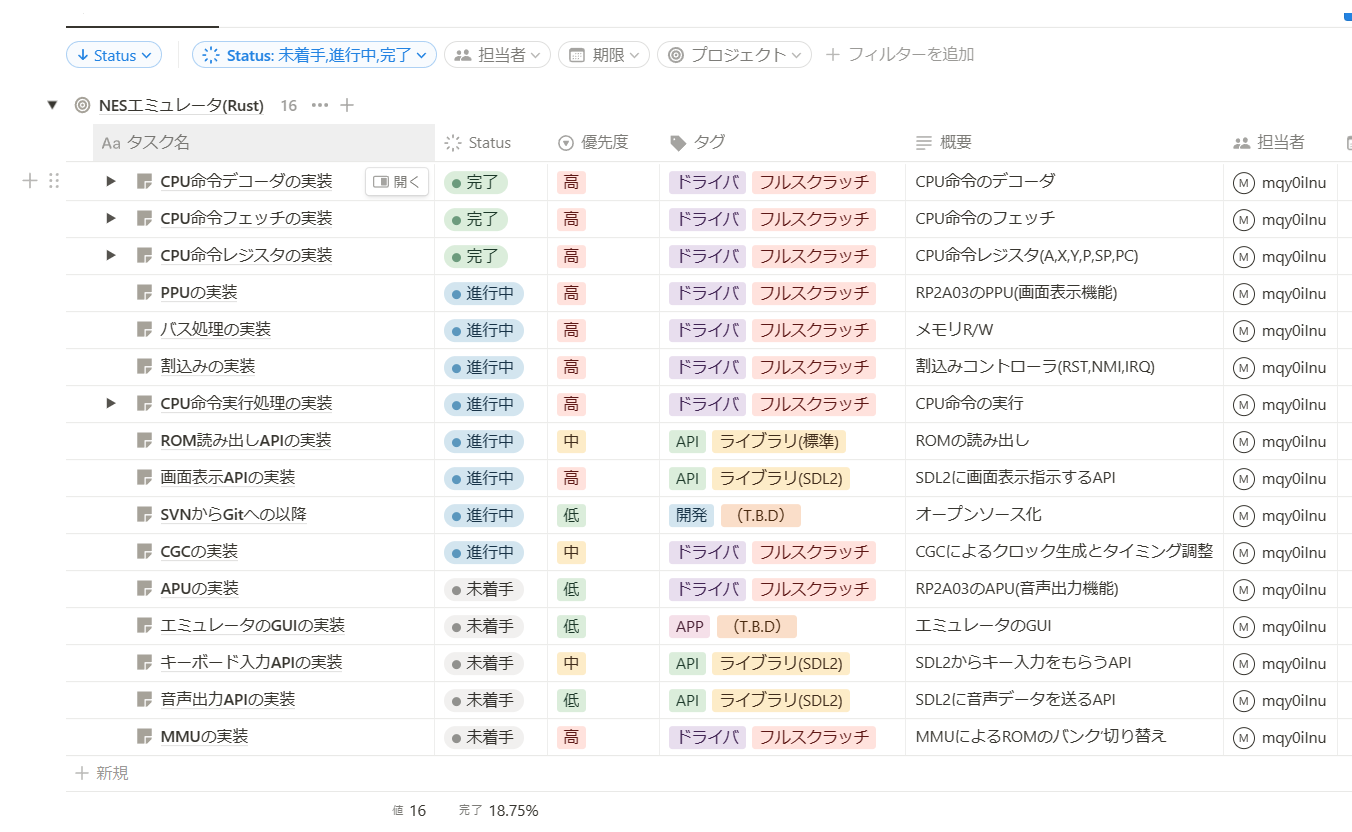
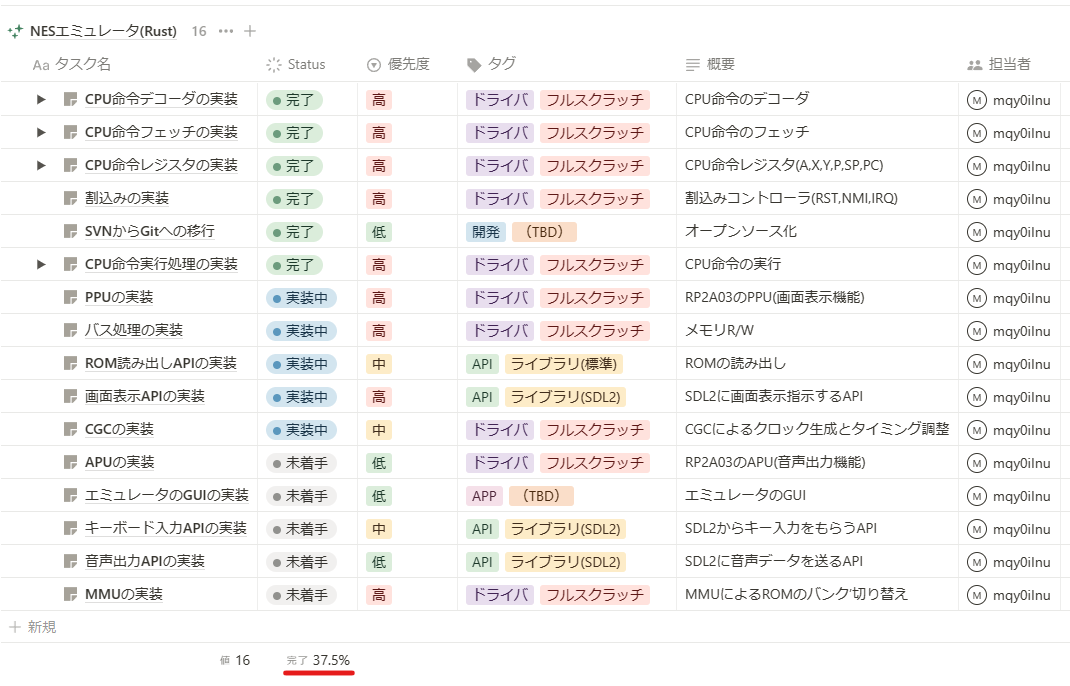
Fix PLA

diff --git a/src/main.rs b/src/main.rs
@@ -795,6 +795,7 @@ where
             OpcodeType::PLA => {
                 let value = self.pop_stack();
                 self.set_register(CPUReg::A, value);
+                self.cpu_p_reg.nzv_flg_update(value.try_into().unwrap());
                 println!("PLA");
             }
             OpcodeType::PLP => {
@@ -1183,11 +1184,6 @@ mod cpu_test {
             nes_mem: NESMemory::new(),
         };
 
-        // (DEBUG) Dmy IRQ Vector
-        // let prg_rom = &mut cpu.nes_mem.prg_rom;
-        // let rom_len = prg_rom.len();
-        // prg_rom[rom_len - 2] = 0x00;
-        // prg_rom.push(0x80);
         // CPU Init
         cpu.reset();
 
@@ -1203,22 +1199,22 @@ mod cpu_test {
         cpu.cpu_p_reg.set_status_flg(OVERFLOW_FLG);
         cpu.nes_mem.prg_rom.extend([0x38, 0xF8, 0x78, 0x18, 0xD8, 0x58, 0xB8].iter().cloned());
 
-        // ; [Test Asm]
-        // LDA #$0A ; A = 0x0A
-        // TAX      ; A = 0, X = 0x0A
-        // TXA      ; A = 0x0A, X = 0
+        // ; [Test Asm] TAX TXA TAY TYA
+        // LDA #$0A ; A:0x0A
+        // TAX      ; A:0x0A, X:0x0A
+        // TXA      ; A:0x0A, X:0x0A
         //
-        // LDA #$0B ; A = 0x0B
-        // TAY      ; A = 0, X:0x0A, Y = 0x0B
-        // TYA      ; A = 0x0B, X:0x0A, Y = 0
+        // LDA #$0B ; A:0x0B
+        // TAY      ; A:0x0B, X:0x0A, Y:0x0B
+        // TYA      ; A:0x0B, X:0x0A, Y:0x0B
         cpu.nes_mem.prg_rom.extend([0xA9, 0x0A, 0xAA, 0x8A, 0xA9, 0x0B, 0xA8, 0x98].iter().cloned());
 
 
-        // ; [Test Asm]
-        //          ; A = 0x0B,
-        // ORA #$A0 ; A = 0xAB (0xA0 | 0x0B = 0xAB)
-        // EOR #$BA ; A = 0x11 (0xAB ^ 0xBA = 0x11)
-        // AND #$44 ; A = 0x00 (0x44 & 0x11 = 0x00)
+        // ; [Test Asm] ORA EOR AND
+        //          ; A:0x0B, X:0x0A, Y:0x0B
+        // ORA #$A0 ; A:0xAB (0xA0 | 0x0B = 0xAB), X:0x0A, Y:0x0B
+        // EOR #$BA ; A:0x11 (0xAB ^ 0xBA:0x11), X:0x0A, Y:0x0B
+        // AND #$44 ; A:0x00 (0x44 & 0x11 = 0x00), X:0x0A, Y:0x0B
         cpu.nes_mem.prg_rom.extend([0x09, 0xA0, 0x49, 0xBA, 0x29, 0x44].iter().cloned());
 
         // [Test Asm] JMP $8000
@@ -1226,8 +1222,8 @@ mod cpu_test {
 
         // ROM Dump
         // println!("[TEST] : ROM = {:02X?}", cpu.nes_mem.prg_rom);
-        let len = cpu.nes_mem.prg_rom.len();
 
+        let len = cpu.nes_mem.prg_rom.len();
         for _ in 1..len
         {
             cpu_proc(&mut cpu);

diff --git a/README.md b/README.md
@@ -1,5 +1,5 @@
 # PJ進捗
-`進捗率` ... `18.75%`  
+`進捗率` ... **37.50%**  
 
 <img src="dev/pj_status.png" alt="file">
 
